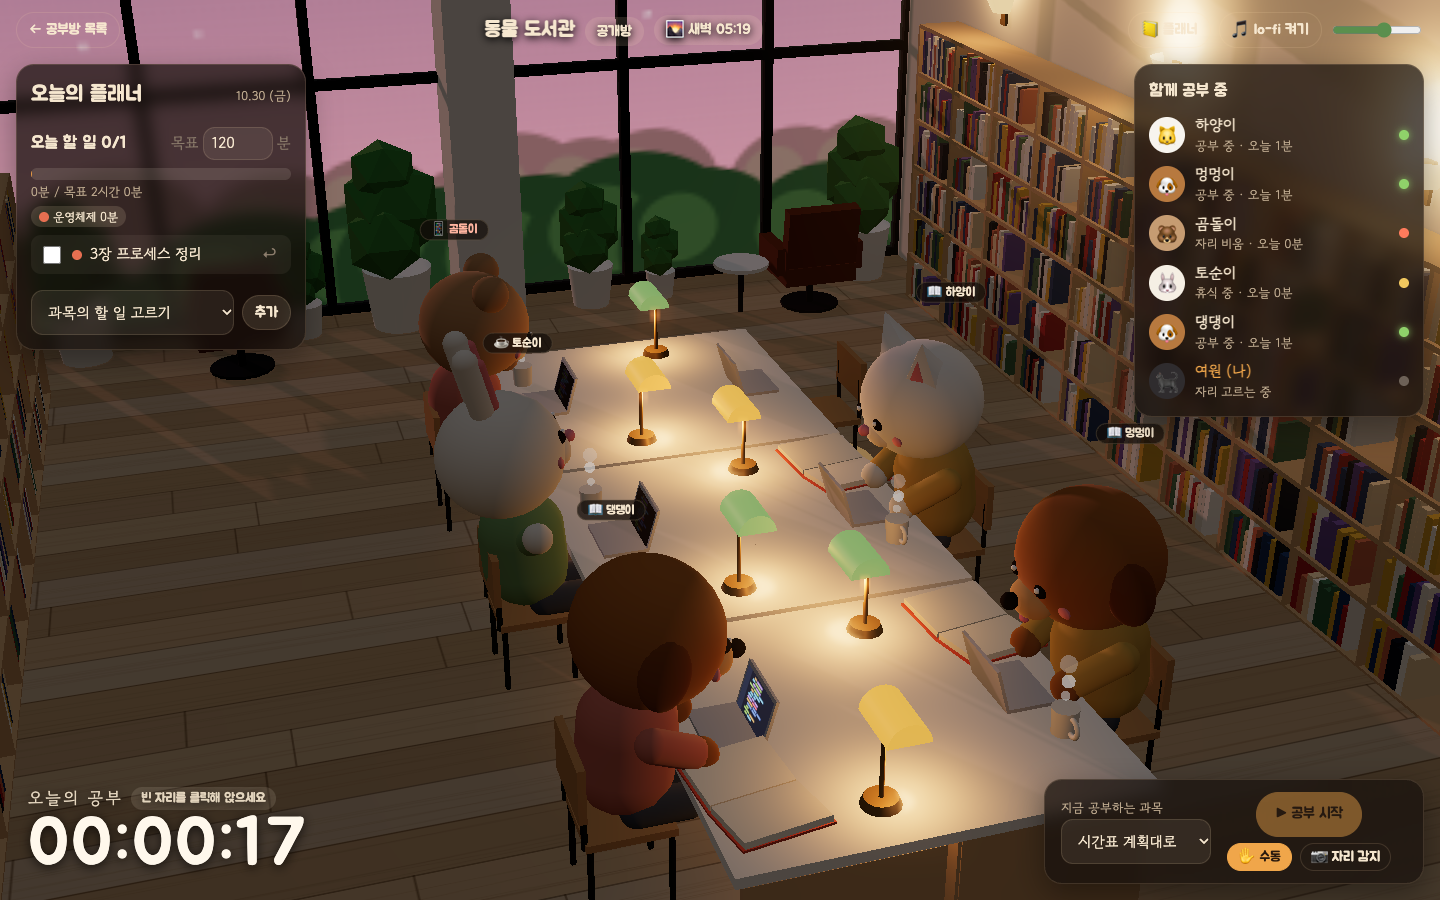
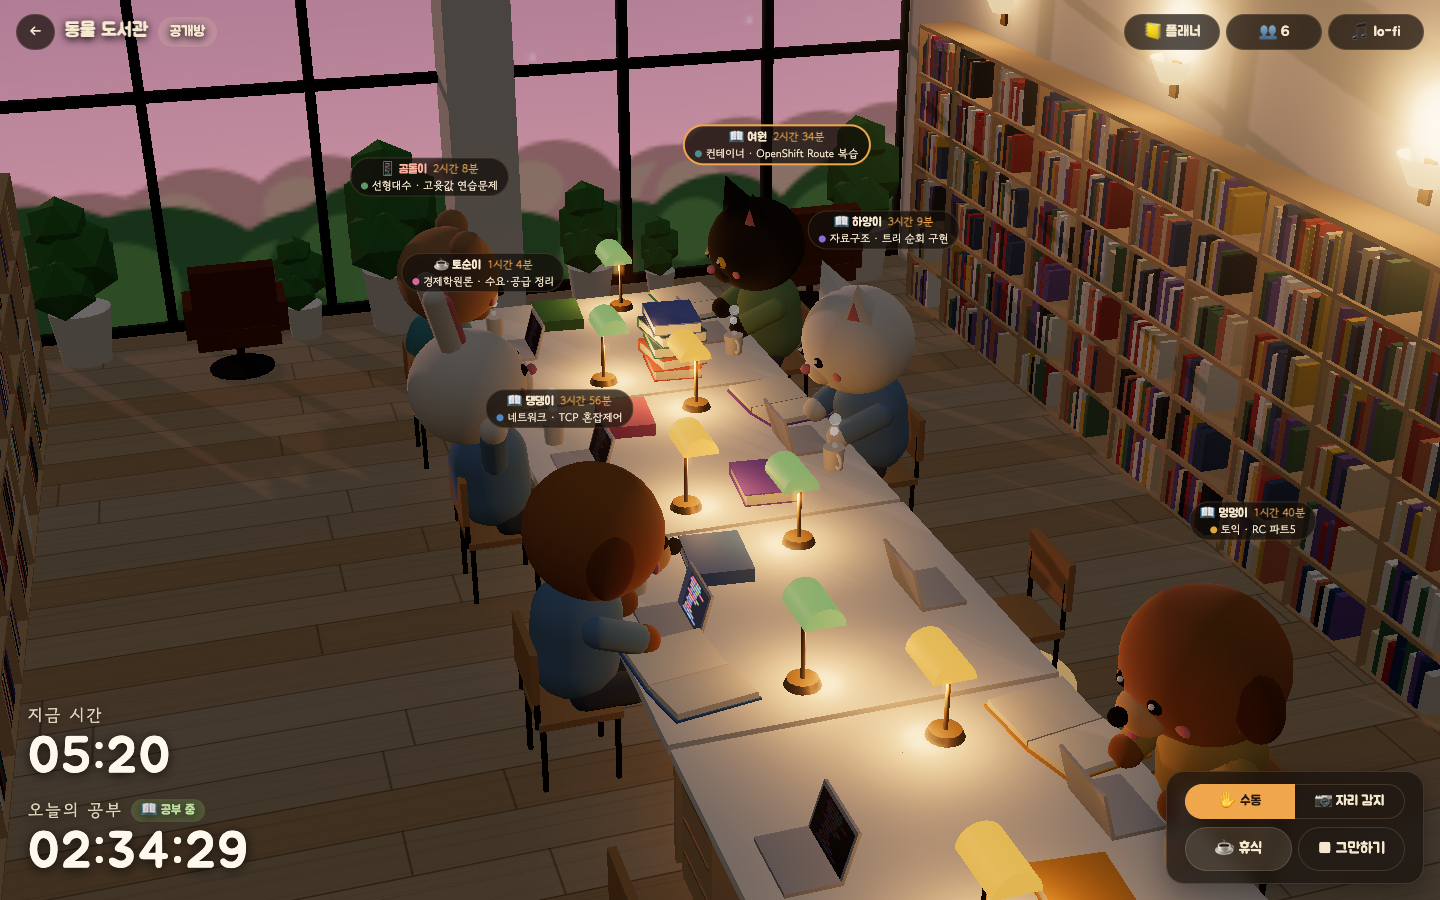
docs: README 화면 캡처를 현재 UI로 교체
- 공부방·시간대별 하늘·플래너·공부방 목록·캐릭터·로그인 화면 재촬영
- Route 접속 화면을 배포된 최신 화면으로 교체
- 플래너 화면에 시간표가 함께 보여 시간표 캡처 대신 로그인 화면 표시

diff --git a/students/202355536/README.md b/students/202355536/README.md
@@ -40,9 +40,9 @@
 |---|---|---|---|
 | ![새벽](images/time-dawn.png) | ![낮](images/time-day.png) | ![노을](images/time-sunset.png) | ![밤](images/time-night.png) |
 
-| 플래너 | 플래너 시간표 | 캐릭터 | 공부방 목록 |
+| 로그인 | 공부방 목록 | 플래너 | 캐릭터 |
 |---|---|---|---|
-| ![플래너](images/planner.png) | ![시간표](images/planner-timetable.png) | ![캐릭터](images/character.png) | ![공부방 목록](images/rooms.png) |
+| ![로그인](images/login.png) | ![공부방 목록](images/rooms.png) | ![플래너](images/planner.png) | ![캐릭터](images/character.png) |
 
 ---
 
